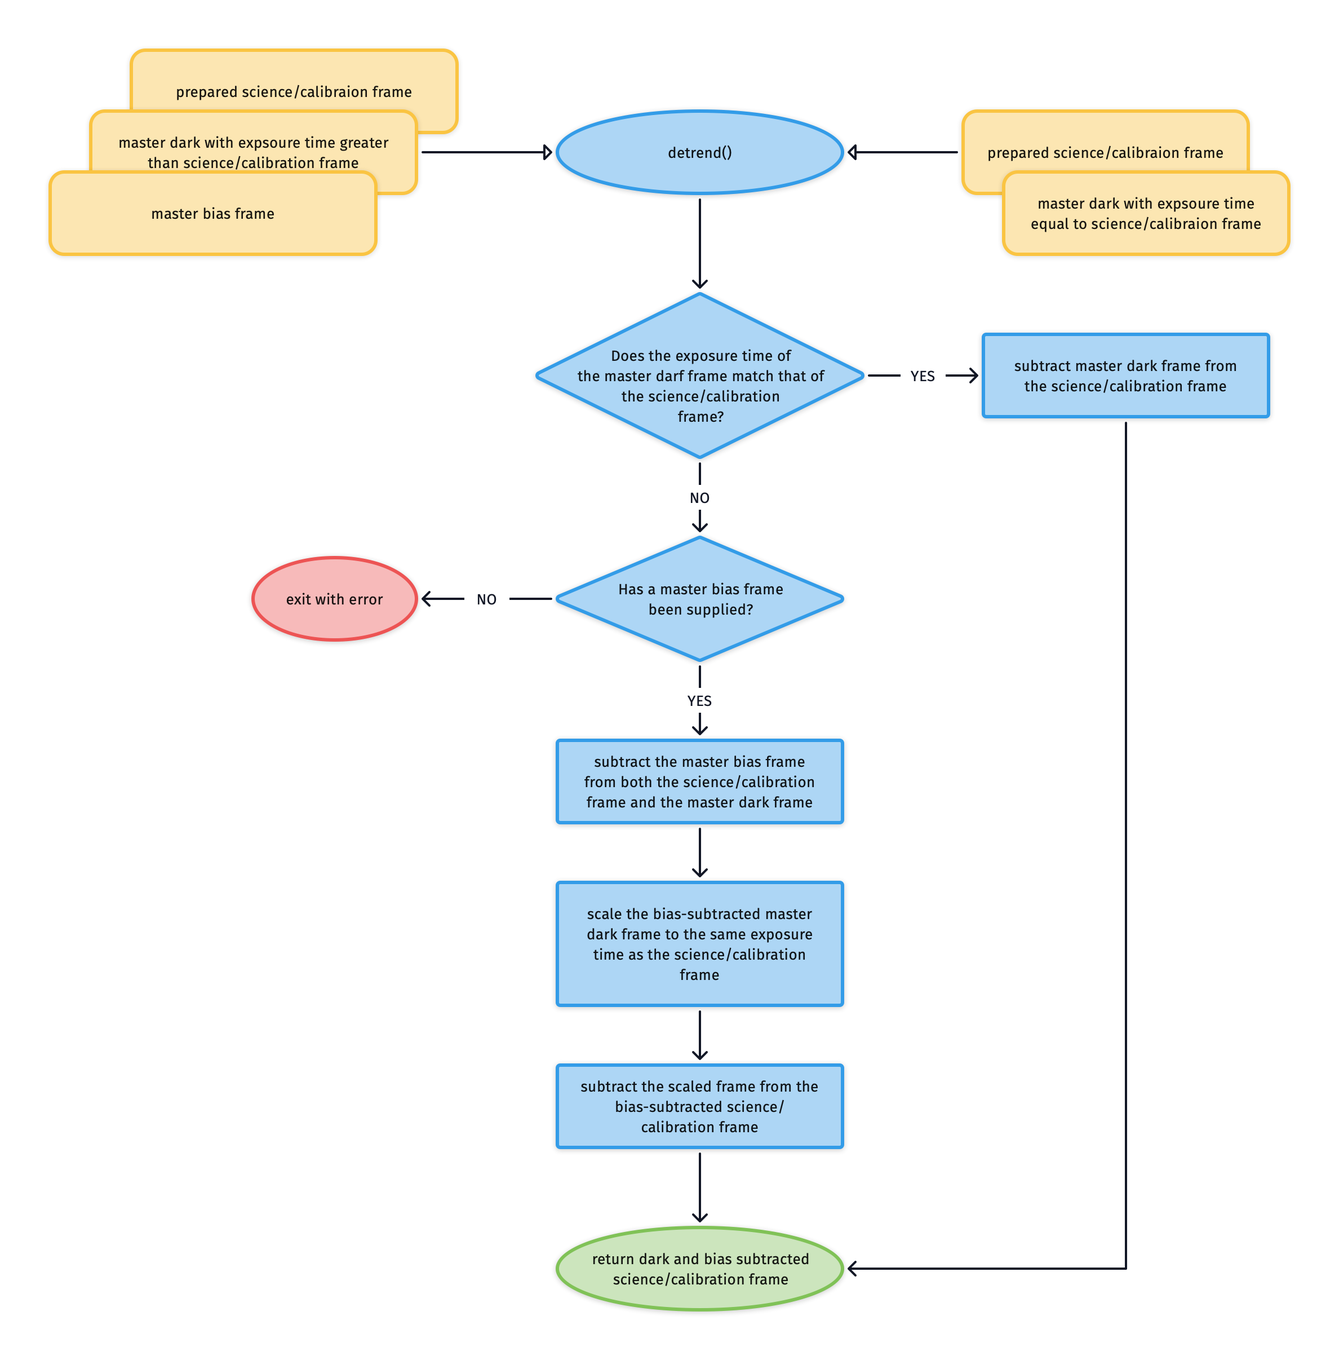
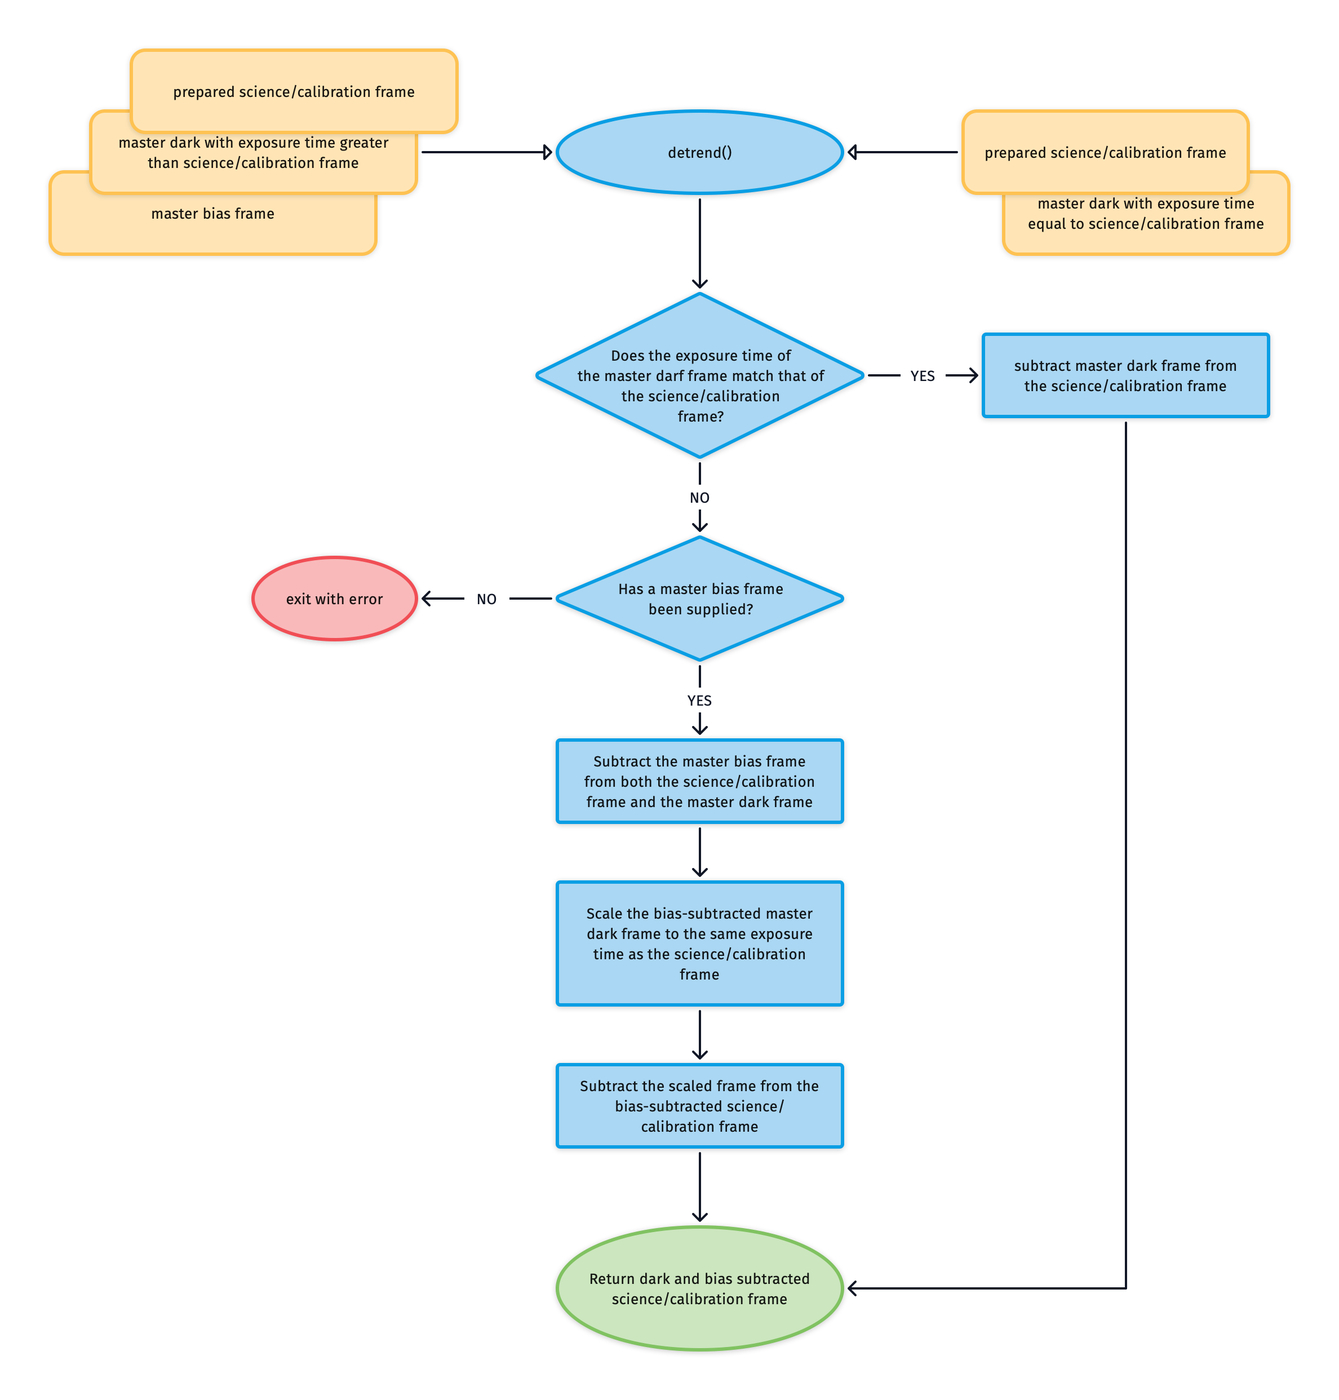
x

diff --git a/soxspipe/commonutils/toolkit.py b/soxspipe/commonutils/toolkit.py
@@ -514,13 +514,9 @@ def generic_quality_checks(
 
     **Usage:**
 
-    :::{todo}
-            add usage info
-            create a sublime snippet for usage
-    :::
-
     ```python
-    usage code
+    from soxspipe.commonutils.toolkit import generic_quality_checks
+    qcTable = generic_quality_checks(log=log, frame=myFrame, settings=settings, recipeName="my recipe", qcTable=qcTable)
     ```
     """
     log.debug('starting the ``functionName`` function')
@@ -606,13 +602,10 @@ def spectroscopic_image_quality_checks(
 
     **Usage:**
 
-    :::{todo}
-            add usage info
-            create a sublime snippet for usage
-    :::
-
     ```python
-    usage code
+    from soxspipe.commonutils.toolkit import spectroscopic_image_quality_checks
+    qcTable = spectroscopic_image_quality_checks(
+            log=log, frame=myFrame, settings=settings, recipeName="this recipe", qcTable=qcTable, orderTablePath=orderTablePath)
     ```
     """
     log.debug('starting the ``functionName`` function')

diff --git a/soxspipe/commonutils/horne_extraction.py b/soxspipe/commonutils/horne_extraction.py
@@ -51,14 +51,6 @@ class horne_extraction(object):
 
     To initiate a horne_extraction object, use the following:
 
-    :::{todo}
-        - add usage info
-        - create a sublime snippet for usage
-        - create cl-util for this class
-        - add a tutorial about ``horne_extraction`` to documentation
-        - create a blog post about what ``horne_extraction`` does
-    :::
-
     ```python
     from soxspipe.commonutils import horne_extraction
     optimalExtractor = horne_extraction(
@@ -300,7 +292,9 @@ class horne_extraction(object):
 
         **Return:**
 
-        - None
+        - ``qcTable`` -- the data frame to collect measured QC metrics
+        - ``productsTable`` -- the data frame to collect output products
+        - ``mergedSpectumDF`` -- path to the FITS binary table containing the merged spectrum
         """
         self.log.debug('starting the ``extract`` method')
 

diff --git a/soxspipe/recipes/base_recipe.py b/soxspipe/recipes/base_recipe.py
@@ -1059,10 +1059,6 @@ class base_recipe(object):
         myCalibratedFrame = self.detrend(
             inputFrame=inputFrameCCDObject, master_bias=masterBiasCCDObject, dark=darkCCDObject)
         ```
-
-        :::{todo}
-            - code needs written to scale dark frame to exposure time of science/calibration frame
-        :::
         """
         self.log.debug('starting the ``detrend`` method')
 

diff --git a/docs/source/utils/horne_extraction.md b/docs/source/utils/horne_extraction.md
@@ -1,5 +1,7 @@
 # horne_extraction
 
+DAVE WAS HERE
+
 The [`horne_extraction`](#soxspipe.commonutils.horne_extraction) utility performs an optimal extraction of a source's flux from an echelle order using the algorithms reported in {cite:t}`horne1986`.
 
 ## Input
@@ -15,8 +17,8 @@ The [`horne_extraction`](#soxspipe.commonutils.horne_extraction) utility perform
 | Parameter                | Description                                   | Type  |
 | ------------------------ | --------------------------------------------- | ----- |
 |  horne-extraction-slit-length | size of the extraction box in the spatial direction  | int  |
-| horne-extraction-profile-clipping-sigma | Sigma-clipping threshold for refining the fitting of polynomials used for detemining the object profile  | int|
-| horne-extraction-profile-clipping-iteration-count| Maximum number of iteration allowed to refine fitting of polynomials of the object profile |int |
+| horne-extraction-profile-clipping-sigma | Sigma-clipping threshold for refining the fitting of polynomials used for determining the object profile  | int|
+| horne-extraction-profile-clipping-iteration-count| Maximum number of iterations allowed to refine fitting of polynomials of the object profile |int |
 | horne-extraction-profile-global-clipping-sigma| Sigma-clipping threshold used to exclude deviant pixels and cosmic rays during the extraction| int |
 
 ## Methods
@@ -25,11 +27,11 @@ The typical execution workflow is the following:
 
 ![](horne_extraction.png)
 
-This utility, according to the prescrption of Horne+86, follows those basic steps:
+This utility, according to the prescription of Horne+86, follows those basic steps:
 
 ### 1 Determination of the spatial profile
 
-Starting from the order_table computed by the `detect_continumm` utility, the horne_extraction utility runs along the spectral direction and takes, for each wavelenght centered in the position measured by the detect_continuum utility, a window of 1x`horne-extraction-slit-length`. Then, the pixels are summed and each pixel in the slice is normalized as 
+Starting from the order_table computed by the `detect_continumm` utility, the horne_extraction utility runs along the spectral direction and takes, for each wavelength centred in the position measured by the detect_continuum utility, a window of 1x`horne-extraction-slit-length`. Then, the pixels are summed, and each pixel in the slice is normalized as 
 
 $$
 pixel_i = \frac{Flux_{pixel_i}}{\sum_{j=0}^{N}{Flux_{pixel_j}}}
@@ -38,27 +40,27 @@ $$
 where N = `horne-extraction-slit-length`.
 
 
-Then, for each pixel in the slice along the dispersion a low order polynomial is fitted. This polynomial models the value of the fractional flux received in this pixel by the object along the dispersion. The full set of polynomials represent the profile of the object along the spatial direction for each wavelenght. For a slice length of N pixels there will be N different polynomials, one per each pixel.
+Then, a low-order polynomial is fitted for each pixel in the slice, modelling the value of the fractional flux received along the dispersion axis. The complete set of polynomials represents the object's profile along the spatial direction for each wavelength. For a slice length of N pixels, there will be N different polynomials, one per pixel.
 
-Polynomials are fitted with subsequent iterations. Pixels for which they residuals deviate more than  `horne-extraction-profile-clipping-sigma` standard deviation are removed before attemping a new fitting of the data. The procedure is repeated for a maximum of `horne-extraction-profile-clipping-iteration-count` times.
+Polynomials are fitted with subsequent iterations. Pixels for which residuals deviate more than the `horne-extraction-profile-clipping-sigma` standard deviation are removed before attempting a new fitting of the data. The procedure is repeated for a maximum of `horne-extraction-profile-clipping-iteration-count` times.
 
-When the procedure above is completed, the actual extraction takes place as follows:
+When the procedure above is completed, the actual extraction occurs as follows:
 
-###  2 Extraction of the spectrum for each wavelength for each order
+### 2 Extraction of the spectrum for each wavelength for each order.
 
-Using the polynomials computed above, the extracted integrated flux for each wavelenght in the order is computed as
+Using the polynomials computed above, the extracted integrated flux for each wavelength in the order is calculated as follows:
 
 $$
 extractedFlux_{\lambda} = \frac{\sum_{i = 0}^{N}{P_{i}^{\lambda} (D_{i}^{\lambda} - S_{i}^{\lambda})}}{\sum_{i = 0}^{N}{(P_{i}^{\lambda})^2 (V_{i}^{\lambda})^{-1}}}
 $$
 
-where $P_{i}^{\lambda}$ is the value of the polynomial for the pixel $i^{th}$ evaluated at wavelength $\lambda$, $D_{i}^{\lambda}$ is the raw pixel value on the 2D image, detrended and sky subtracted, of the science object and $S_{i}^{\lambda}$ is the estimated value, at the same pixel position, of the 2D image of the sky model computed in stare mode. When this utility is applied on nodding or offset mode images, this value is chosen to be zero. $V_{i}^{\lambda}$ is the so called variance image and it computed as 
+Where $P_{i}^{\lambda}$ is the value of the polynomial for the pixel $i^{th}$ evaluated at wavelength $\lambda$, $D_{i}^{\lambda}$ is the raw pixel value on the 2D image, detrended and sky subtracted, of the science object and $S_{i}^{\lambda}$ is the estimated value, at the same pixel position, of the 2D image of the sky model computed in stare mode. When this utility is applied to nodding or offset mode images, this value is chosen to be zero. $V_{i}^{\lambda}$ is the so-called variance image and is computed as 
 
 $$
 V_{i}^{\lambda} = V_{0} + \frac{P_{i}^{\lambda} f_{\lambda} +  S_{i}^{\lambda}}{Q}
 $$
 
-where $V_{0}$ is the square of the readout noise of the detector, $f_\{lambda}$ is the sum of the pixels within the extraction window at each wavelength and $Q$ is the detector gain. 
+Where $V_{0}$ is the square of the readout noise of the detector, $f_\{lambda}$ is the sum of the pixels within the extraction window at each wavelength, and $Q$ is the detector gain. 
 
 Cosmic rays and uncorrected deviant pixels are removed from the extraction by comparing their value with a certain threshold. In particular, for each pixel $i$ in the extraction window the quantity
 
@@ -66,11 +68,11 @@ $$
 \frac{(D_{i}^{\lambda} - P_{i}{\lambda} f_{\lambda} - S_{i}{\lambda})^2}{V_{i}^{\lambda}}
 $$
 
-is computed. Pixels for which this quantity exceeds the `horne-extraction-profile-global-clipping-sigma` are not included in the extraction.
+is computed. The extraction does not include pixels for which this quantity exceeds the `horne-extraction-profile-global-clipping-sigma`.
 
 ### 3 Merging of spectral orders
 
-The extraction of the spectrum is performed on each single order separately. When all orders are extrated they will be merged togheter in a single spectrum. Since regions of different orders overlap in the wavelenght space, they are first rectified on a common, equally spaced, wavelenght grid in order to merge then togheter. Flux during resampling is conserved. 
+The spectrum is extracted on each order separately. When all orders are extracted, they are merged together in a single spectrum. Since regions of different orders overlap in the wavelength space, they are first rectified on a common, equally spaced wavelength grid in order to merge together. Flux during resampling is conserved. 
 
 ## Output
 

diff --git a/docs/source/utils/subtract_sky.md b/docs/source/utils/subtract_sky.md
@@ -19,7 +19,7 @@ An iterative rolling-window percentile smoothing with 𝜎-clipping flags pixels
 
 :::{figure-md} percentile_smoothing
 :target: ../_images/image-20240919131037029.png
-![image-20240919131037029](../_images/image-20240919131037029.png)
+![image-20240919131037029](../_images/image-20240919131037029.png){width=600px}
 
 The narrow spikes seen in the original data (grey) represent the cosmic ray hits and other bad-pixel values contaminating our measurements of the background night sky. The blue line is the percentile smoothed data (a close approximation to the sky spectrum), and the faint blue crosses are pixels flagged as containing flux other than just the sky.
 :::
@@ -27,14 +27,14 @@ The narrow spikes seen in the original data (grey) represent the cosmic ray hits
 
 :::{figure-md} percentile_smoothing_zoom
 :target: ../_images/image-20240919131221006.png
-![image-20240919131221006](../_images/image-20240919131221006.png)
+![image-20240919131221006](../_images/image-20240919131221006.png){width=600px}
 
 A zoom of the figure above. Pixels containing object flux are seen to contain flux above the background sky.
 :::
 
 :::{figure-md} object_clipped_image
 :target: ../_images/image-20240919134124789.png
-![image-20240919134124789](../_images/image-20240919134124789.png)
+![image-20240919134124789](../_images/image-20240919134124789.png){width=600px}
 
 
 The original echelle order with pixels flagged as containing object flux or cosmic-ray hits marked in blue.
@@ -52,7 +52,7 @@ A final round of iterative bspline fitting is performed, each time adding new kn
 
 :::{figure-md} bspline_fit
 :target: ../_images/image-20240920100928141.png
-![image-20240920100928141](../_images/image-20240920100928141.png)
+![image-20240920100928141](../_images/image-20240920100928141.png){width=600px}
 
 A bspline fit of the sky spectrum. The black dots are the sky flux values coming from individual pixels, the red diamonds are the strategically placed knot, and the blue line is the final bspline fit to the data (the sky model).
 :::
@@ -61,7 +61,7 @@ Finally, this bspline fit is used to generate an estimation of the sky flux leve
 
 :::{figure-md} sky_model_image
 :target: ../_images/image-20240920101017782.png
-![image-20240920101017782](../_images/image-20240920101017782.png)
+![image-20240920101017782](../_images/image-20240920101017782.png){width=600px}
 
 The bspline fit is used to estimate the sky flux level in every pixel in the original detector space (top panel), which is then subtracted from the original image to produce a frame with the sky removed (bottom panel). The object trace can be clearly seen now the skylines have been removed.
 :::

diff --git a/docs/source/utils/subtract_background.md b/docs/source/utils/subtract_background.md
@@ -17,14 +17,14 @@ The algorithm fits, models, and subtracts the scattered background light from an
 
 :::{figure-md} raw_frame_with_background_light
 :target: ../_images/image-20240920135732439.png
-![image-20240920135732439](../_images/image-20240920135732439.png)
+![image-20240920135732439](../_images/image-20240920135732439.png){width=600px}
 
 An example NIR lamp flat frame containing scattered background light.
 :::
 
 :::{figure-md} raw_frame_with_background_light_masked
 :target: ../_images/image-20240920140302799.png
-![image-20240920140302799](../_images/image-20240920140302799.png)
+![image-20240920140302799](../_images/image-20240920140302799.png){width=600px}
 
 The NIR lamp flat now with inter-order and bad pixels masked.
 :::
@@ -33,7 +33,7 @@ For each column in the masked frame, a bspline is fitted to the unmasked fluxes 
 
 :::{figure-md} background_spline
 :target: ../_images/image-20240920140729800.png
-![image-20240920140729800](../_images/image-20240920140729800.png)
+![image-20240920140729800](../_images/image-20240920140729800.png){width=600px}
 
 The red points are the unmasked data located along a single column in the masked frame. The blue line is the bspline fitted to the data, providing a model for the scattered background light contaminating the inter-order regions.
 :::
@@ -44,7 +44,7 @@ A Gaussian filter is applied to the image to remove the structure resulting from
 
 :::{figure-md} background_iamge_blurred
 :target: ../_images/image-20240920135302518.png
-![image-20240920135302518](../_images/image-20240920135302518.png)
+![image-20240920135302518](../_images/image-20240920135302518.png){width=600px}
 
 The final image of the model background scattered light, which is then subtracted from the original data frame.
 :::

diff --git a/docs/source/utils/detect_continuum.md b/docs/source/utils/detect_continuum.md
@@ -28,9 +28,7 @@ Centred on each pixel position, an N-pixel long (`slice-length` recipe parameter
 
 :::{figure-md} gaussian-fitting
 :target: ../_images/image-20240910165703002.png_
-
-
-![image-20240910165703002](../_images/image-20240910165703002.png)
+![image-20240910165703002](../_images/image-20240910165703002.png){width=600px}
 
 An attempt is made to fit a Gaussian to the flux in each slice. The pixel position is stored if a peak is registered with more than a `peak-sigma-limit` sigma significance.
 :::
@@ -41,9 +39,7 @@ An attempt is made to fit a Gaussian to the flux in each slice. The pixel positi
 
 :::{figure-md} peak-fits
 :target: ../_images/image-20240910170025287.png
-
-
-![image-20240910170025287](../_images/image-20240910170025287.png)
+![image-20240910170025287](../_images/image-20240910170025287.png){width=600px}
 
 The green circles represent the location on the cross-dispersion slice where a flux peak was detected. The red crosses show the centre of the slices where a peak failed to be detected.
 :::
@@ -59,9 +55,7 @@ where $X$ and $Y$ are the pixel positions and $n$ is the echelle order number. $
 
 :::{figure-md} trace_fit_image
 :target: ../_images/image-20240911101450222.png
-
-
-![image-20240911101450222](../_images/image-20240911101450222.png)
+![image-20240911101450222](../_images/image-20240911101450222.png){width=600px}
 
 The top panel show the global polynomial fitted to the detected source trace with the different colours representing individual echelle orders. The middle panels show the fit residuals in the X and Y axes. The bottom panel shows the FWHM of the trace fits (in pixels) with respect to echelle order and wavelength.
 :::

diff --git a/docs/source/utils/detect_order_edges.md b/docs/source/utils/detect_order_edges.md
@@ -27,7 +27,7 @@ For each slice along each order, the pixel-locations xmin (lower edge) and xmax 
 
 :::{figure-md} order-edge-slice
 :target: ../_images/image-20240911115628697.png
-![image-20240911115628697](../_images/image-20240911115628697.png)
+![image-20240911115628697](../_images/image-20240911115628697.png){width=600px}
 
 A single slice cut across the cross-dispersion axis of an echelle order. The grey dots represent the median flux from the width-collapsed 1D slice. The red dots show where a pre-determined flux threshold is reached, and the pixel positions at these locations are registered as the lower and upper edges of the order as measured in this slice.
 :::
@@ -44,7 +44,7 @@ where $X$ and $Y$ are the pixel positions and $n$ is the echelle order number. $
 
 :::{figure-md} order-edge-fits
 :target: ../_images/image-20240911121836550.png
-![image-20240911121836550](../_images/image-20240911121836550.png)
+![image-20240911121836550](../_images/image-20240911121836550.png){width=600px}
 
 The top panel shows the upper and lower-order edge detections registered in the individual cross-dispersion slices in an Xshooter VIS flat frame. The bottom panel shows the global polynomial fits to the upper and lower-order edges, with the area between the fits filled with different colours to reveal the unique echelle orders across the detector plane.
 :::

diff --git a/docs/source/utils/detrend.md b/docs/source/utils/detrend.md
@@ -1,8 +1,20 @@
 # detrend
 
 
-For the UVB-VIS arm we will often need to scale the master-dark frame to match the exposure time of our science/calibration frame. If this is the case than the master-bias frame needs to be subtracted from the master-dark frame before scaling. However, if the master-dark frame has the same exposure time as your science/calibration frame then it can be subtracted directly from frame as this serves to remove the bias and dark-current contributions simultaneously. 
+For the UVB-VIS arm, we will often need to scale the master-dark frame to match the exposure time of our science/calibration frame. If this is the case, the master-bias frame needs to be subtracted from the master-dark frame before scaling. However, if the master-dark frame has the same exposure time as your science/calibration frame, it can be subtracted directly from the frame, as this serves to remove the bias and dark-current contributions simultaneously. 
 
 This logic is all housed within the [`detrend`](#soxspipe.recipes.base_recipe.base_recipe.detrend) method.
 
-![](detrend.png)
+
+:::{figure-md} detrend
+:target: detrend.png
+![](detrend.png){width=600px}
+
+The algorithm used to detrend raw images.
+:::
+
+
+## Utility API
+
+:::{autodoc2-object} soxspipe.recipes.base_recipe.base_recipe.detrend
+:::

diff --git a/docs/source/instruments/nir.md b/docs/source/instruments/nir.md
@@ -31,7 +31,7 @@ As described in {cite:t}`vitali2018b`, the SOXS NIR spectrograph is a near-infra
 As with the UV-VIS, four slits options ($0.5$, $1$, $1.5$ and $5$ arcsec) are provided, which will project a FWHM for an unresolved spectral line onto four detector pixels. A slit height of 12 arcsecs is employed. The detector is a $2k\times2k$ 18-micron pixel Teledyne H2RG TM array. As atmosphere dispersion is less severe in the NIR regime, unlike the UV-VIS arm, the NIR arm does include an atmosphere dispersion corrector (ADC). 
 
 :::{figure-md}
-![image-20240902123312207](../_images/image-20240902123312207.png){width=800px}
+![image-20240902123312207](../_images/image-20240902123312207.png){width=600px}
 
 A SOXS flat-lamp calibration image.
 :::
@@ -41,7 +41,7 @@ A SOXS flat-lamp calibration image.
 
 
 :::{figure-md}
-![image-20240902121345306](../_images/image-20240902121345306.png){width=800px}
+![image-20240902121345306](../_images/image-20240902121345306.png){width=600px}
 
 The SOXS NIR spectral format, Figure 5 of {cite:t}`vitali2018b`. The inter-order gap is always >10px.
 :::

diff --git a/docs/source/utils/flux_calibration.md b/docs/source/utils/flux_calibration.md
@@ -27,7 +27,7 @@ The extracted scientific spectrum is then corrected for airmass, for each weavel
 
 $$
 fluxCorrected_{\lambda} = fluxObserved_{\lambda} \times 10^{AM \times mag_{airmass}}
-$$ 
+$$
 
 Then, the value (in counts) for each wavelenght is divided by the dispersion of the spectrograph and by the exposure time reported in the `EXPTIME` keyword. At this stage, the 1D spectrum of the scientific object has units of $ADU$ $s^{-1}$ $A^{-1}$. In order to finalize the flux calibration, the utility loads the FITS table that contains the fit parameters for the response function given in input at compute the flux calibrated spectrum, for each wavelenght, appyning the formula
 
@@ -43,3 +43,9 @@ where $F(\lambda)$ is the desired 1D scientific spectrum flux calibrated in $erg
 | Data Type | Content |
 | ------------------------ | --------------------------------------------- |
 |FITS table |FITS table containing the flux calibrated input spectrum|
+
+## Utility API
+
+
+:::{autodoc2-object} soxspipe.commonutils.flux_calibration.flux_calibration
+:::

diff --git a/docs/source/utils/_helper_utils.md b/docs/source/utils/_helper_utils.md
@@ -42,6 +42,13 @@ Given a FITS object (HDU list and header), use the SOXS file-naming scheme to re
 :::{autodoc2-object} soxspipe.commonutils.filenamer.filenamer
 :::
 
+## generic_quality_checks
+
+Measure some very basic quality checks on a frame and return the QC table with results appended
+
+:::{autodoc2-object} soxspipe.commonutils.toolkit.generic_quality_checks
+:::
+
 ## get_calibration_lamp
 
 Given a frame (CCDObject), determine which calibration lamp is used.
@@ -96,6 +103,13 @@ Return a spectral format table for your selected instrument containing key param
 Uncompress ESO `fits.Z` frames before processing them with the data-organiser.
 
 :::{autodoc2-object} soxspipe.commonutils.uncompress.uncompress
+:::
+
+## spectroscopic_image_quality_checks
+
+Perform some generic image quality checks and add to the QC output of the recipe.
+
+:::{autodoc2-object} soxspipe.commonutils.toolkit.spectroscopic_image_quality_checks
 :::
 
 ## twoD_disp_map_image_to_dataframe
